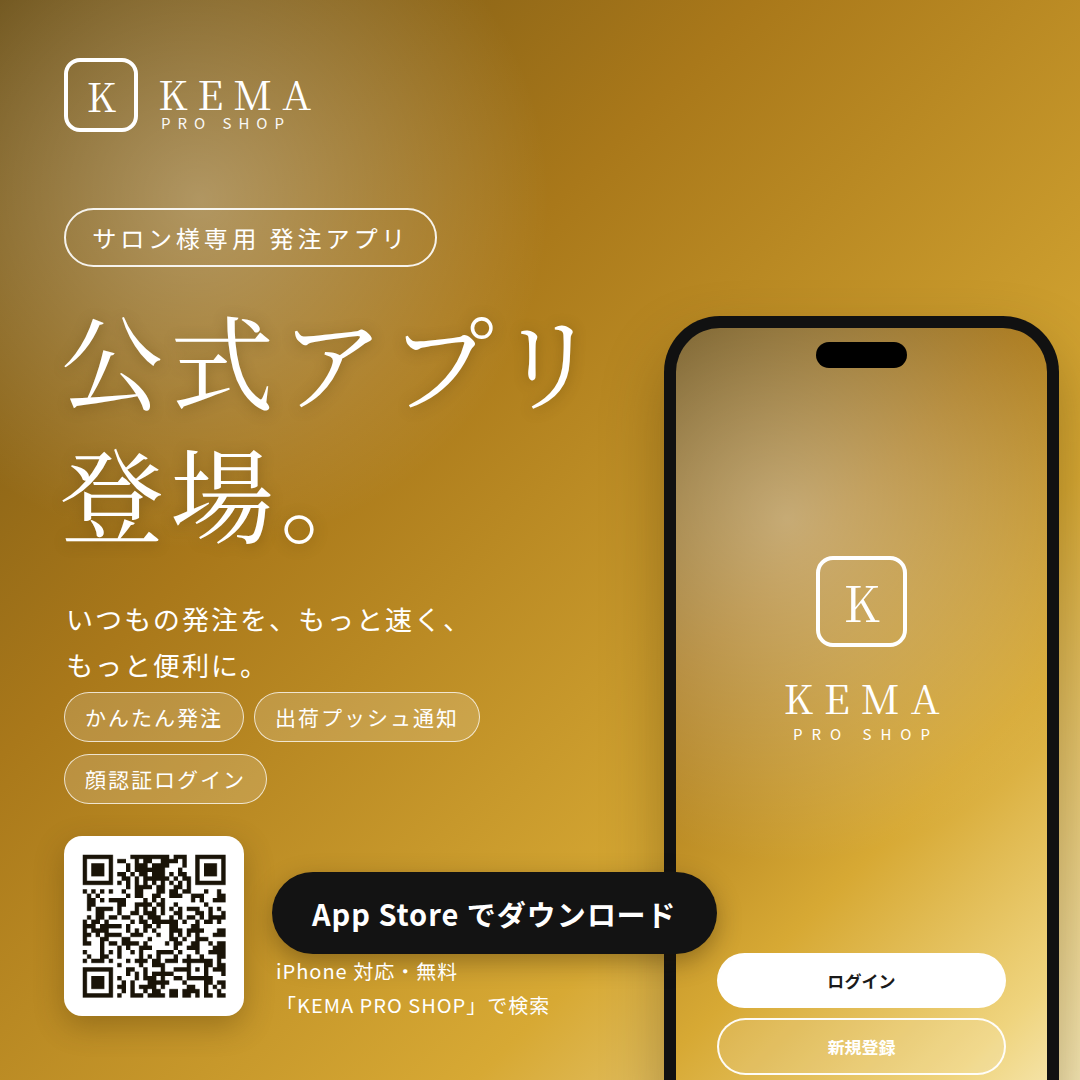
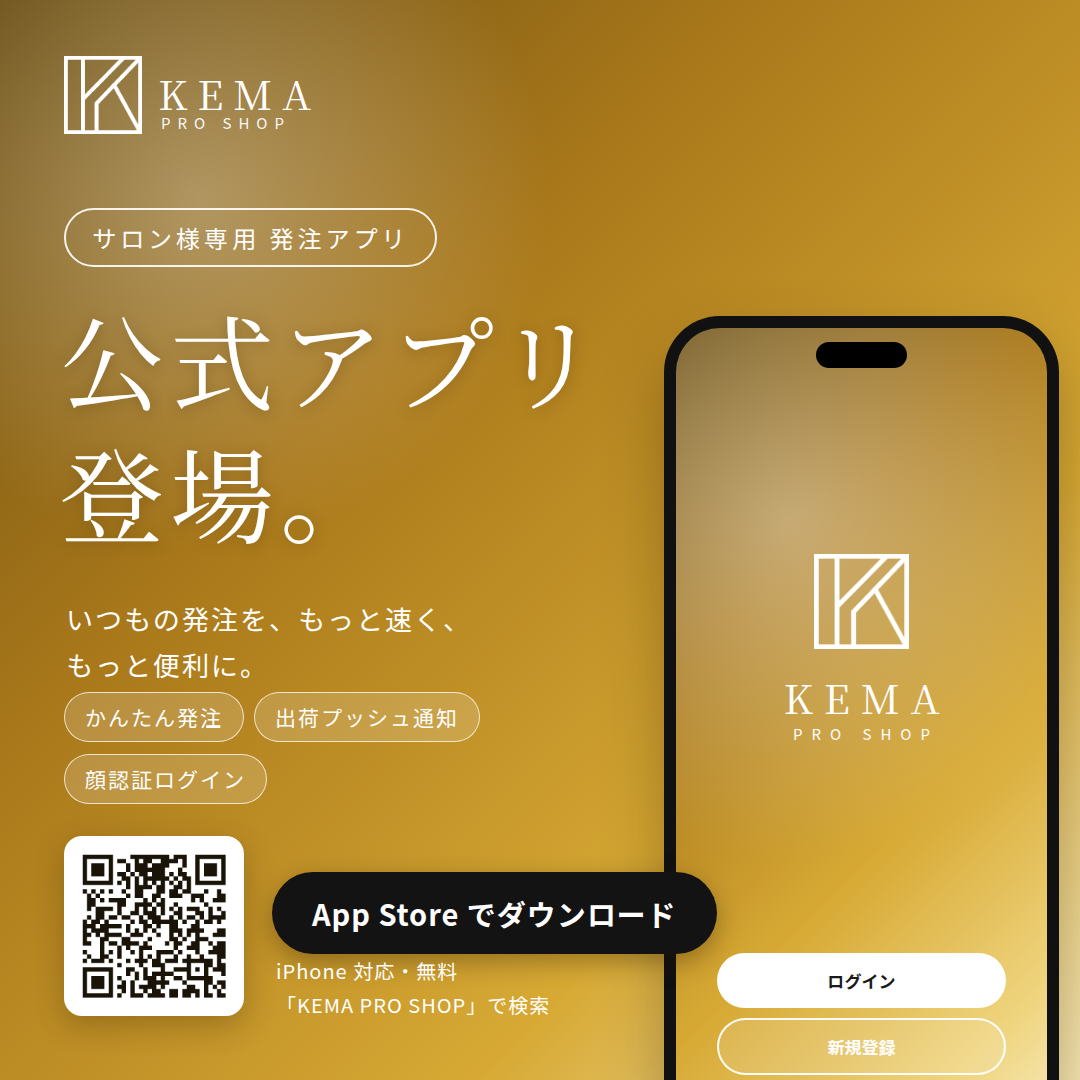
正方形宣伝バナーの冠ロゴ(ブランド+スマホ画面内)も正規KEMAロゴに差し替え
Claude-Session: https://claude.ai/code/session_01KJvBPq7YGhAqo9R4Cea1BT

Changed region(s): [[0.7333, 0.4889, 0.8556, 0.6111], [0.0611, 0.0306, 0.1528, 0.1222]]

diff --git a/docs/bcart-ios-app/app-banner-square.html b/docs/bcart-ios-app/app-banner-square.html
@@ -24,13 +24,9 @@
     background: radial-gradient(circle, rgba(255,255,255,0.32), rgba(255,255,255,0) 65%);
   }
 
-  /* ブランド(左上) */
-  .mark {
-    position: absolute; left: 64px; top: 58px; width: 74px; height: 74px;
-    border: 4px solid #ffffff; border-radius: 16px;
-    text-align: center; line-height: 66px;
-    font-family: "kinuta-mincho-stdn", "Noto Serif JP", serif;
-    font-weight: 400; font-size: 40px; color: #ffffff;
+  /* ブランド(左上) — 正規ロゴマーク */
+  .marklogo {
+    position: absolute; left: 64px; top: 56px; width: 78px; height: 78px;
   }
   .brandname {
     position: absolute; left: 158px; top: 64px;
@@ -116,12 +112,8 @@
     position: absolute; top: 14px; left: 140px; width: 91px; height: 26px;
     border-radius: 14px; background: #000000;
   }
-  .phonemark {
-    position: absolute; top: 228px; left: 140px; width: 91px; height: 91px;
-    border: 4px solid #ffffff; border-radius: 17px;
-    text-align: center; line-height: 83px;
-    font-family: "kinuta-mincho-stdn", "Noto Serif JP", serif;
-    font-weight: 400; font-size: 49px; color: #ffffff;
+  .phonemarklogo {
+    position: absolute; top: 226px; left: 138px; width: 95px; height: 95px;
   }
   .phonename {
     position: absolute; top: 340px; left: 0; width: 371px; text-align: center;
@@ -156,7 +148,7 @@
 <div class="banner" data-canvas-width="1080" data-canvas-height="1080">
   <div class="glow"></div>
 
-  <div class="mark">K</div>
[1 lines of base64/hex data omitted]
   <div class="brandname">KEMA</div>
   <div class="brandsub">PRO SHOP</div>
 
@@ -173,7 +165,7 @@
   <div class="phonebody"></div>
   <div class="phonescreen">
     <div class="phoneisland"></div>
-    <div class="phonemark">K</div>
[1 lines of base64/hex data omitted]
     <div class="phonename">KEMA</div>
     <div class="phonesub">PRO SHOP</div>
     <div class="phonebtn1">ログイン</div>
